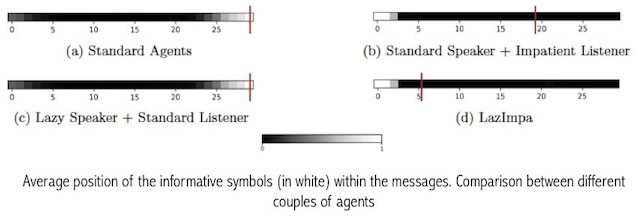
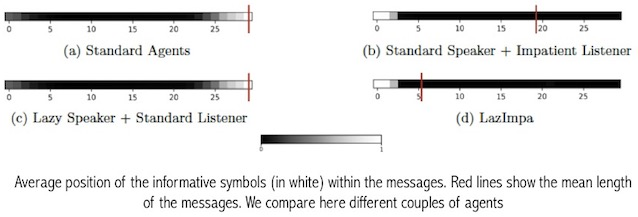
test noisy channel for compo

diff --git a/README.md b/README.md
@@ -20,9 +20,17 @@ Previous experiments showed that Standard agents surprisingly develop non effici
 
 #### Main paper results
 
-- *LazImpa* allows the emergence of an efficient code that follows Zipf's Law of Abbrevation. The solutio is
+- **LazImpa** allows the emergence of an efficient code that follows Zipf's Law of Abbrevation. On the contrary, the code that emerges from Standard Agents is not efficient and almost all message length are equal to the maximum length set by the user.
 
-![res_1](imgs/result_1.jpg | width=100)
+- With the settings of the paper, we show that agents are able to reach the performances of natural languages even though they do not manage to converge toward Optimal Coding (we explore causes of sub-optimality in the paper).
+
+Length statistics are shown in the following figure:
+
+![res_1](imgs/result_1.jpg)
+
+- We analyze the effects of the modelling choices and especially **the position of information** within the messages (see the definition of informative symbols in the paper). We show that Standard Agents (LSTMs) tend to place informative symbols at the end of the messages. On the contrary, the introduction of Impatient Listener causes a shift of information at the beginning of the messages. While regularization (Lazy Speaker) is impossible with a Standard Listener, it well shortens message lengths with Impatient Listener. We suggest that the location of information within the message is crucial for length regularization.
+
+The average position of informative symbols are shown in the following figure (red lines mark the average message length). We test different couples of agents:
 
 ![res_2](imgs/result_2.jpg)
 
